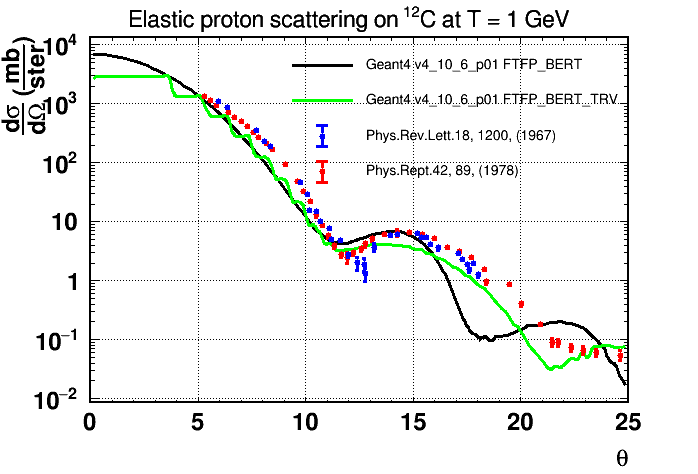
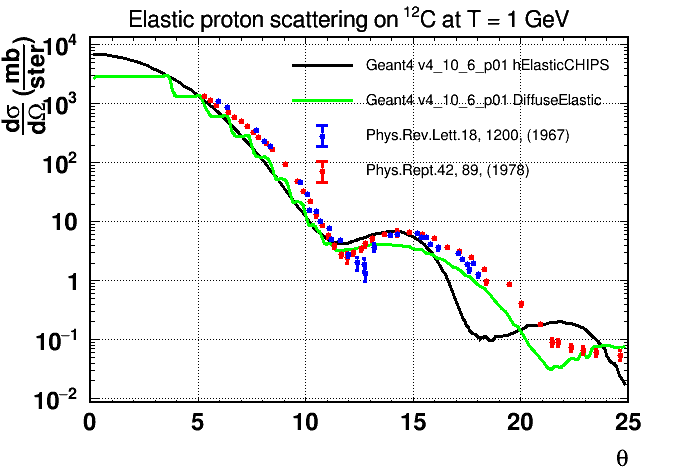
updates

Changed region(s): [[0.5115, 0.1181, 0.8725, 0.2363], [0.5415, 0.3249, 0.7521, 0.384], [0.5115, 0.2658, 0.8123, 0.2954]]

diff --git a/scripts/proton/pC_diff.C b/scripts/proton/pC_diff.C
@@ -50,8 +50,8 @@
 
   TLegend *leg = new TLegend(0.4,0.6,0.9,0.9);
   leg->SetFillStyle(0);
-  leg->AddEntry(diff_FTFP_BERT,"Geant4 v4_10_6_p01 FTFP_BERT","l");
-  leg->AddEntry(diff_FTFP_BERT_TRV,"Geant4 v4_10_6_p01 FTFP_BERT_TRV","l");
+  leg->AddEntry(diff_FTFP_BERT,"Geant4 v4_10_6_p01 hElasticCHIPS","l");
+  leg->AddEntry(diff_FTFP_BERT_TRV,"Geant4 v4_10_6_p01 DiffuseElastic","l");
   leg->AddEntry(gr_prl_18_1200,"Phys.Rev.Lett.18, 1200, (1967)","pe");
   leg->AddEntry(gr,"Phys.Rept.42, 89, (1978)","pe");
   leg->Draw();
